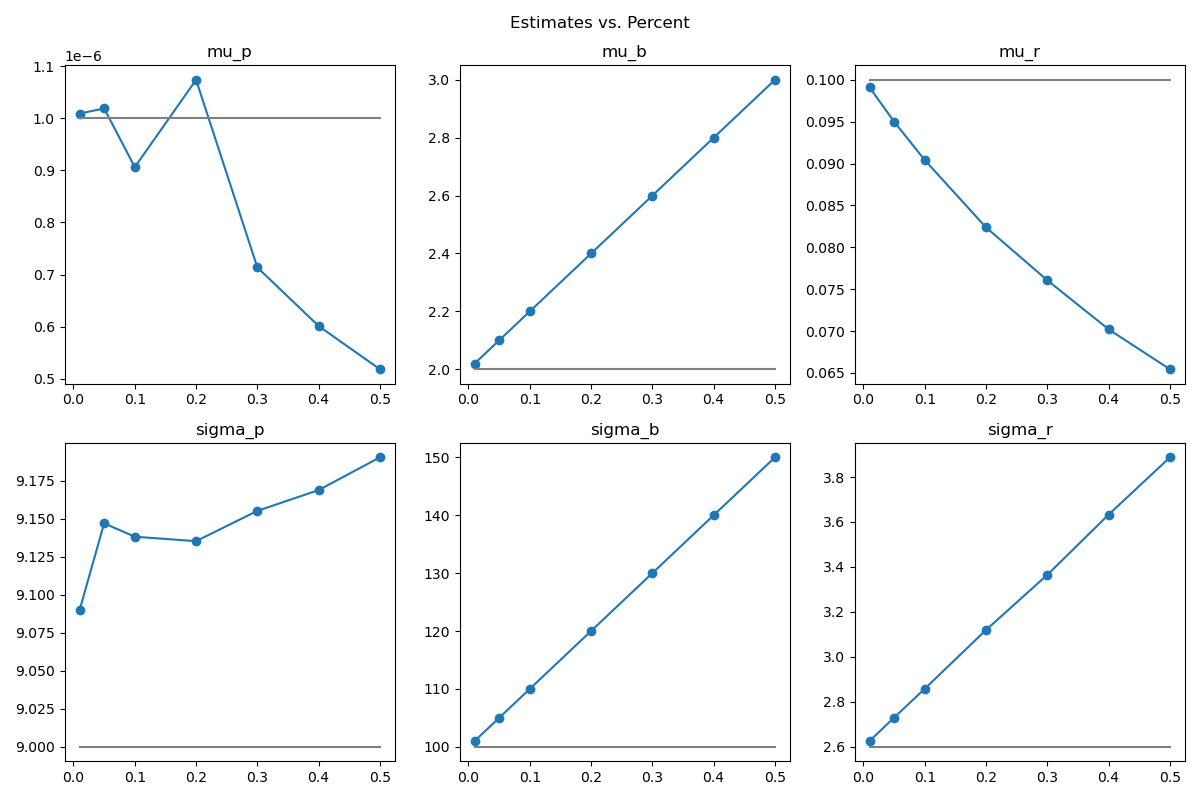
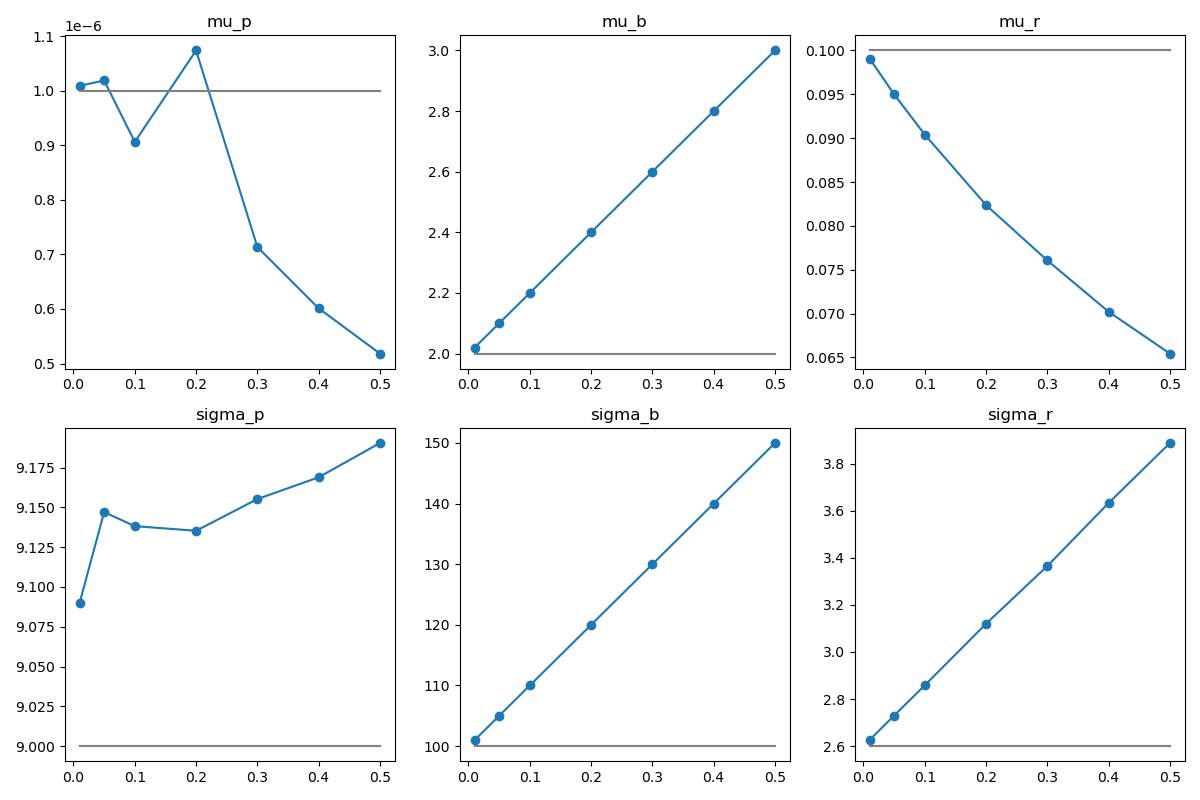
final corrections

diff --git a/script_data_generation.py b/script_data_generation.py
@@ -1,20 +1,21 @@
 from parametter_fitting_final import *
+from Experiment_bounds import *
 
 np.random.seed(42)
 
 def parametter_fitting_data():
 
-    # # parameter_fitting without the bistability conditions - ok
-    # bounds = [(0, 10),(0,10), (0,10), (0,10), (90, 101), (0,10)]  # bounds for: μ_p, μ_b, μ_r, σ_p, σ_b, σ_r (in this order)
-    # parameter_fitting(bounds,"data/estimated_parameters.npy", bistability_check = False)
-
     # parameter_fitting without the bistability conditions - ok
-    bounds = [(0, 100),(0,100), (0,100), (0,100), (0, 100), (0,100)]  # bounds for: μ_p, μ_b, μ_r, σ_p, σ_b, σ_r (in this order)
-    parameter_fitting(bounds,"data/estimated_parameters_new.npy", bistability_check = False)
+    bounds = [(0, 10),(0,10), (0,10), (0,10), (90, 101), (0,10)]  # bounds for: μ_p, μ_b, μ_r, σ_p, σ_b, σ_r (in this order)
+    parameter_fitting(bounds,"data/estimated_parameters.npy", bistability_check = False)
 
-    # #parameter fitting with bistability conditions 
-    # bounds = [(0, 100),(0, 100), (0,0.101), (0,100), (0, 100), (1.79,2.62)]  # bounds for: μ_p, μ_b, μ_r, σ_p, σ_b, σ_r (in this order)
-    # parameter_fitting(bounds, "data/estimated_parameters_bistability.npy", bistability_check=True)
+    # parameter fitting with bistability conditions 
+    bounds = [(0, 100),(0, 100), (0,0.101), (0,100), (0, 100), (1.79,2.62)]  # bounds for: μ_p, μ_b, μ_r, σ_p, σ_b, σ_r (in this order)
+    parameter_fitting(bounds, "data/estimated_parameters_bistability.npy", bistability_check=True)
+
+    #experiments with the bounds 
+    true_params = (1e-6, 2, 0.1, 9, 100, 2.6)
+    final_experiment(true_params, "data/bounds_experiment_results.xlsx")
 
 if __name__ == "__main__":
     parametter_fitting_data()

diff --git a/parametter_fitting_final.py b/parametter_fitting_final.py
@@ -144,12 +144,17 @@ def bistability_conditions(u_r, sigma_r):
     
 def parameter_fitting(bounds, file_name, bistability_check = True):
 
-    if bistability_check == True:
+    if bistability_check:
         result = dual_annealing(error_function_bistability, bounds)
-        np.save(file_name, result.x)
     else: 
         result = dual_annealing(error_function, bounds)
-        np.save(file_name, result.x)
+
+    # Save both parameters and error
+    results_to_save = {
+        "parameters": result.x,
+        "error": result.fun
+    }
+    np.save(file_name, results_to_save)
 
     labels = ["mu_p", "mu_b", "mu_r", "sigma_p", "sigma_b", "sigma_r"]
     print("Optimal Parameters:")

diff --git a/Experiment_bounds.py b/Experiment_bounds.py
@@ -79,8 +79,7 @@ def visualise_the_experiment(location_path, true_params = (1e-6, 2, 0.1, 9, 100,
     ax[1, 2].plot(percent, sigma_r_est, marker="o")
     ax[1, 2].plot(percent, [sigma_r]*len(percent), color = "gray")
     ax[1, 2].set_title("sigma_r")
-
-    fig.suptitle("Estimates vs. Percent")
+    
     plt.tight_layout()
     plt.savefig("figures/experiment.png")
     plt.show()

diff --git a/script.py b/script.py
@@ -27,4 +27,8 @@ def run_experiments():
 
 if __name__ == "__main__":
 
-    run_experiments()
+    #run_experiments()
+    estimated_parameters_nb = np.load("data/estimated_parameters.npy", allow_pickle=True)
+    estimated_parameters_b = np.load("data/estimated_parameters_bistability.npy", allow_pickle=True)
+    print(estimated_parameters_nb)
+    print(estimated_parameters_b)
